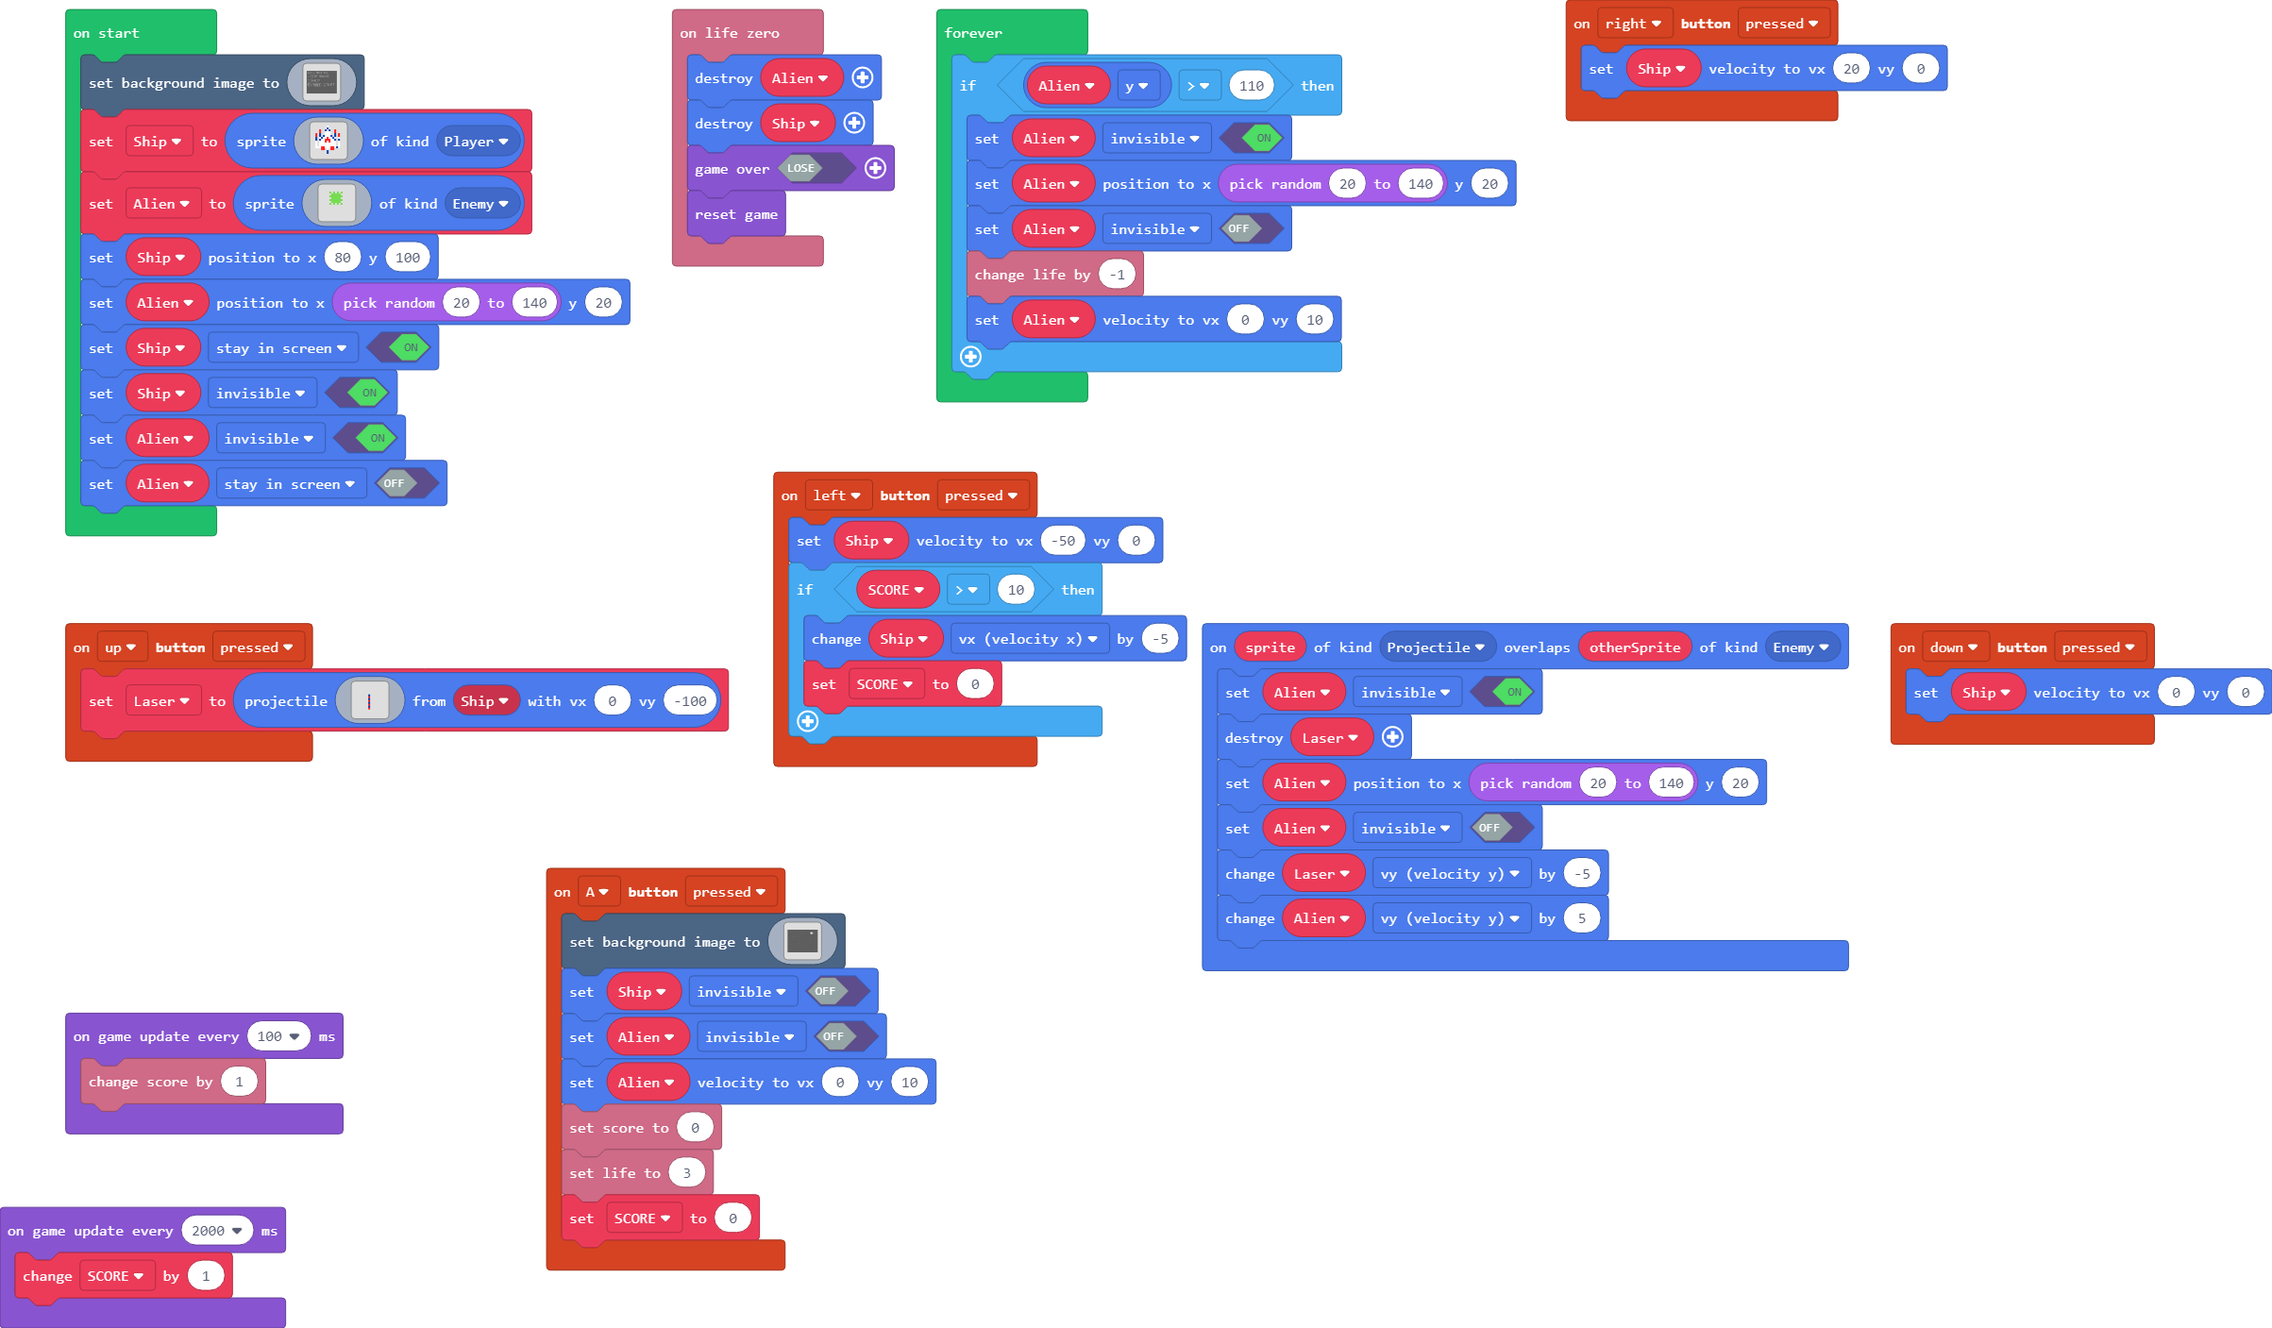
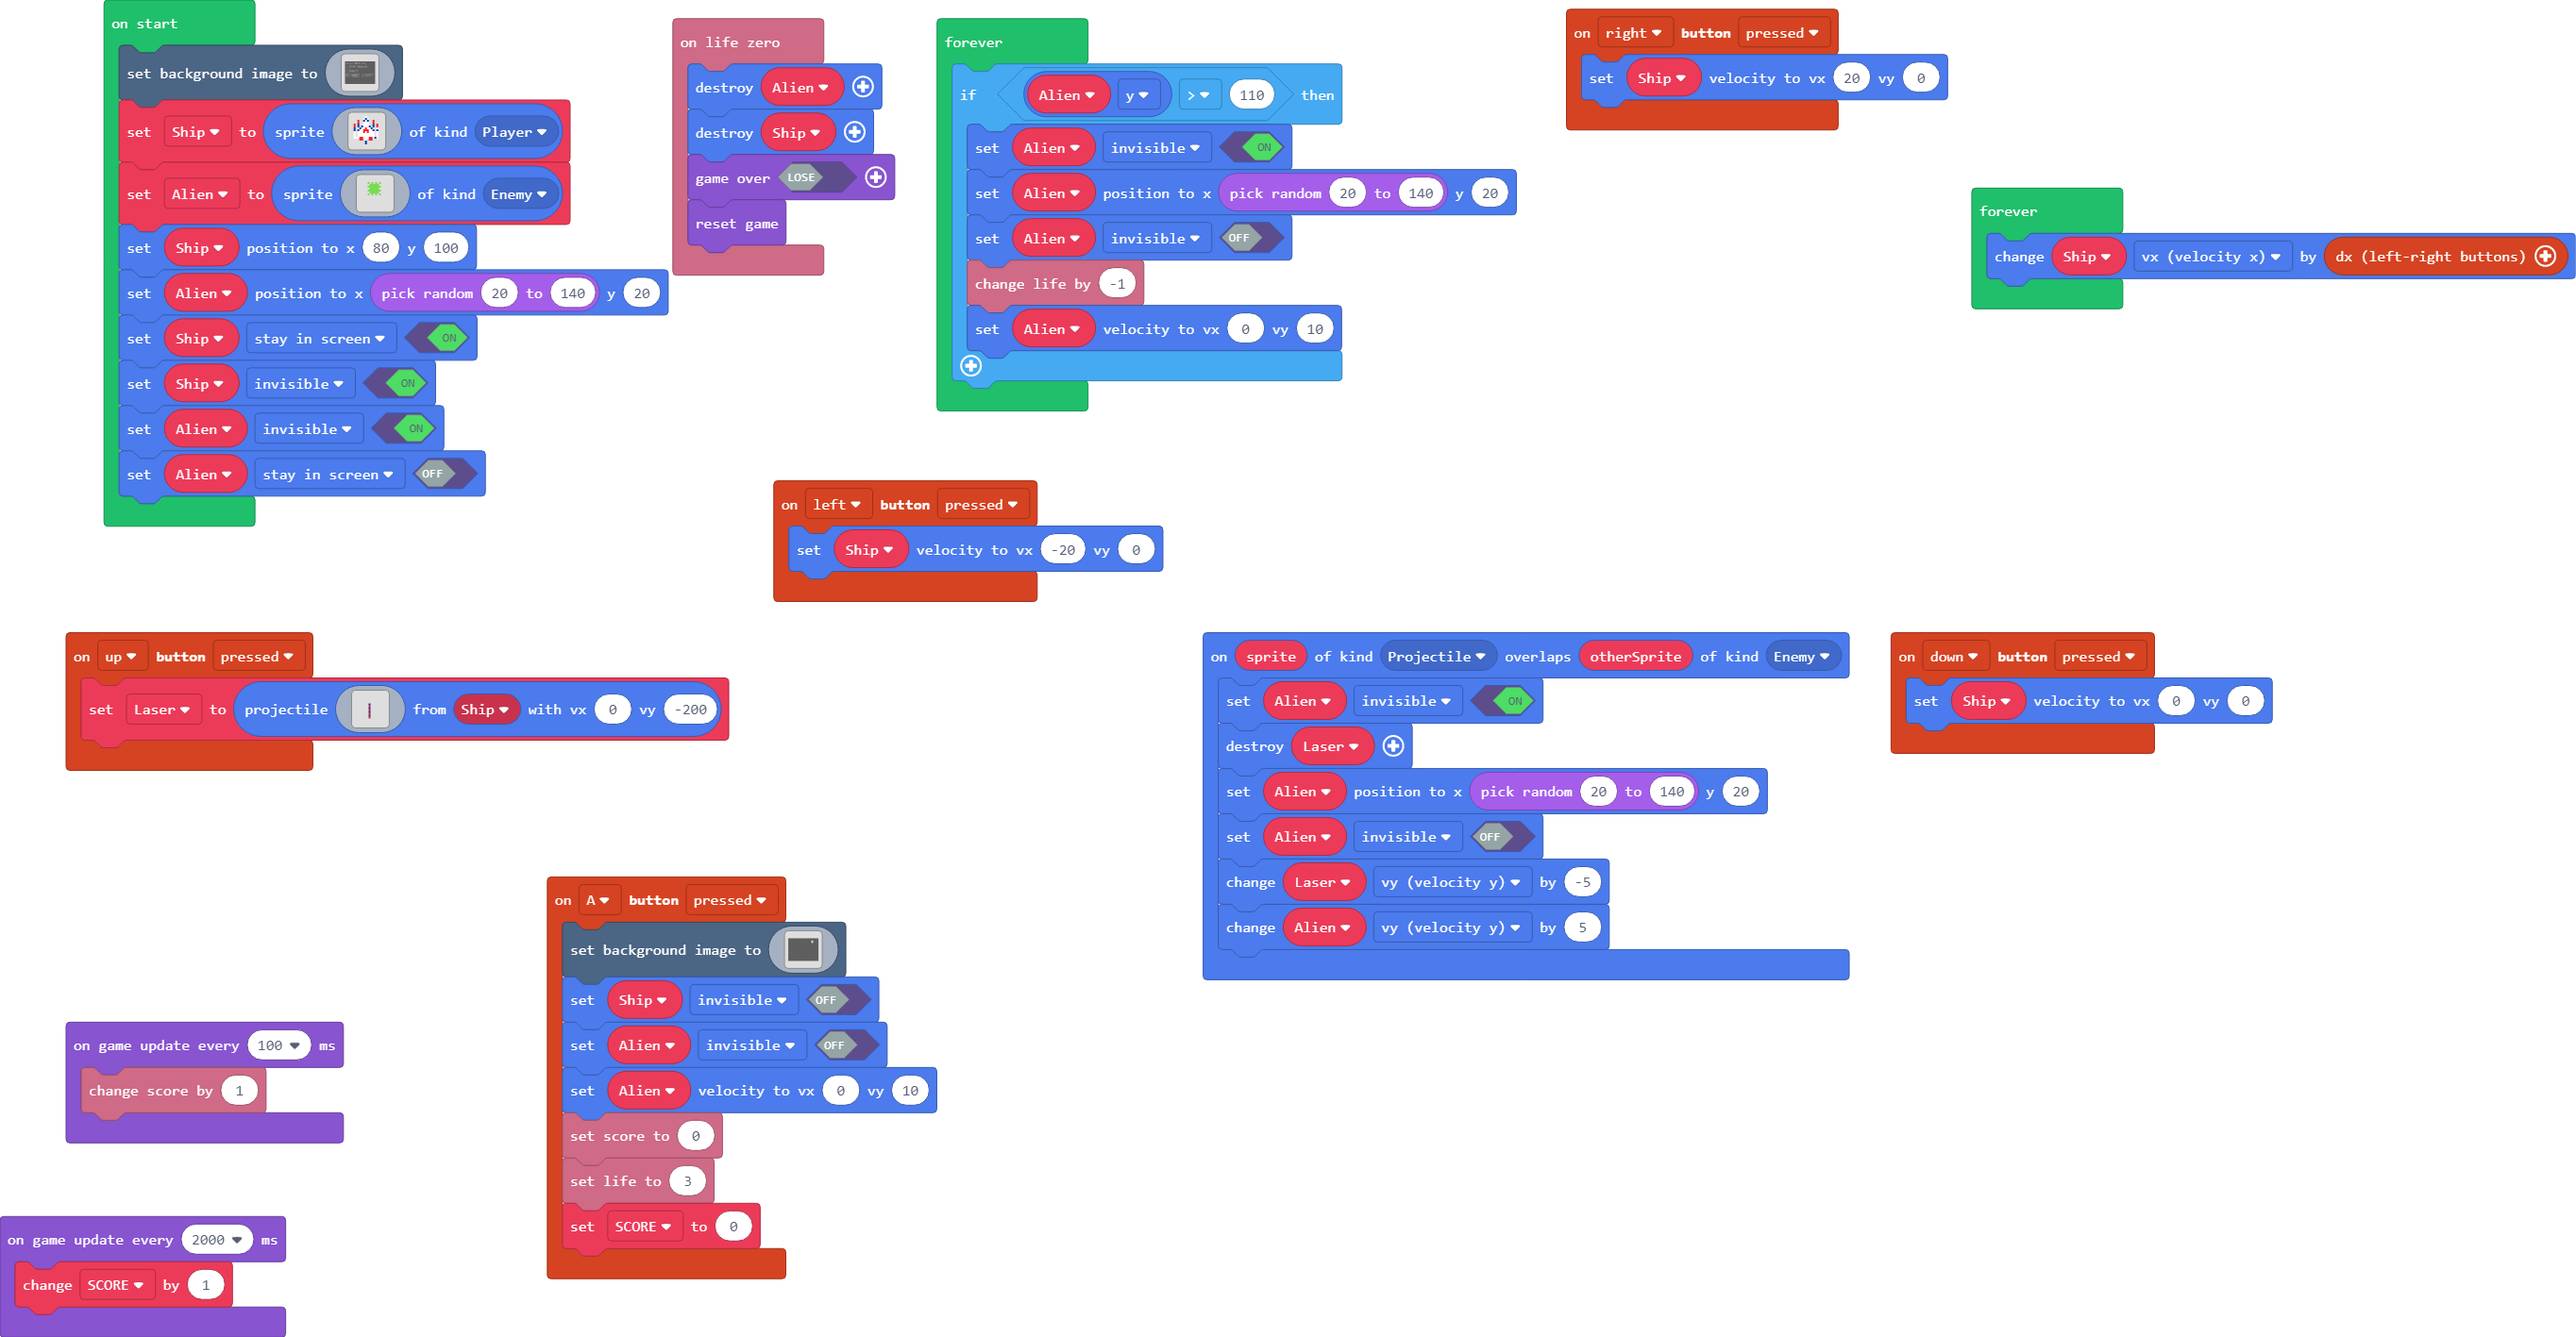
Ship changes speed

diff --git a/main.ts b/main.ts
@@ -2,11 +2,7 @@ namespace SpriteKind {
     export const Barrier = SpriteKind.create()
 }
 controller.left.onEvent(ControllerButtonEvent.Pressed, function () {
-    Ship.setVelocity(-50, 0)
-    if (SCORE > 10) {
-        Ship.vx += -5
-        SCORE = 0
-    }
+    Ship.setVelocity(-20, 0)
 })
 controller.down.onEvent(ControllerButtonEvent.Pressed, function () {
     Ship.setVelocity(0, 0)
@@ -170,7 +166,7 @@ controller.up.onEvent(ControllerButtonEvent.Pressed, function () {
 . . . . . . . . . . . . . . . . 
 . . . . . . . . . . . . . . . . 
 . . . . . . . . . . . . . . . . 
-`, Ship, 0, -100)
+`, Ship, 0, -200)
 })
 info.onLifeZero(function () {
     Alien.destroy()
@@ -178,8 +174,8 @@ info.onLifeZero(function () {
     game.over(false)
     game.reset()
 })
-let Laser: Sprite = null
 let SCORE = 0
+let Laser: Sprite = null
 let Alien: Sprite = null
 let Ship: Sprite = null
 scene.setBackgroundImage(img`
@@ -360,4 +356,7 @@ forever(function () {
         info.changeLifeBy(-1)
         Alien.setVelocity(0, 10)
     }
+})
+forever(function () {
+    Ship.vx += controller.dx()
 })
